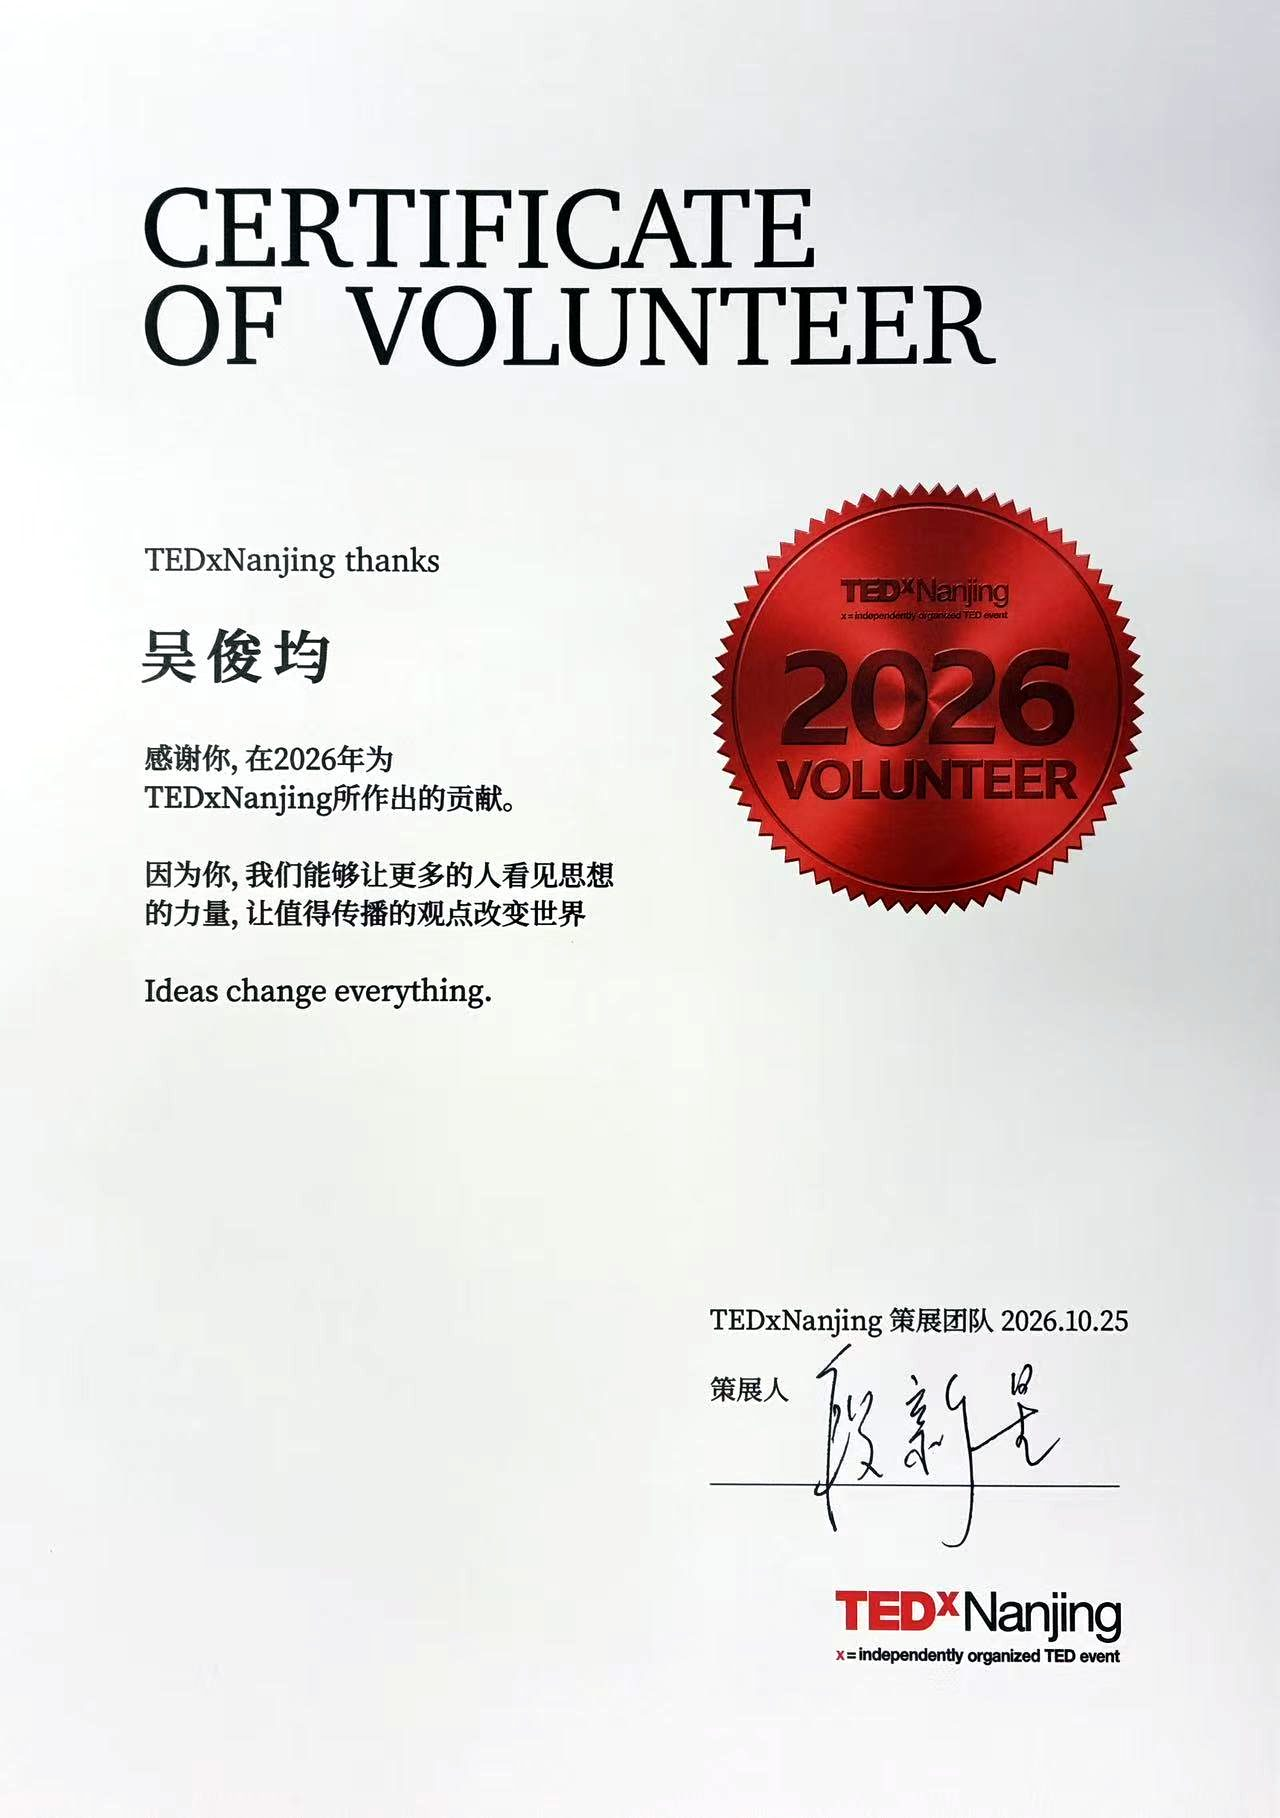
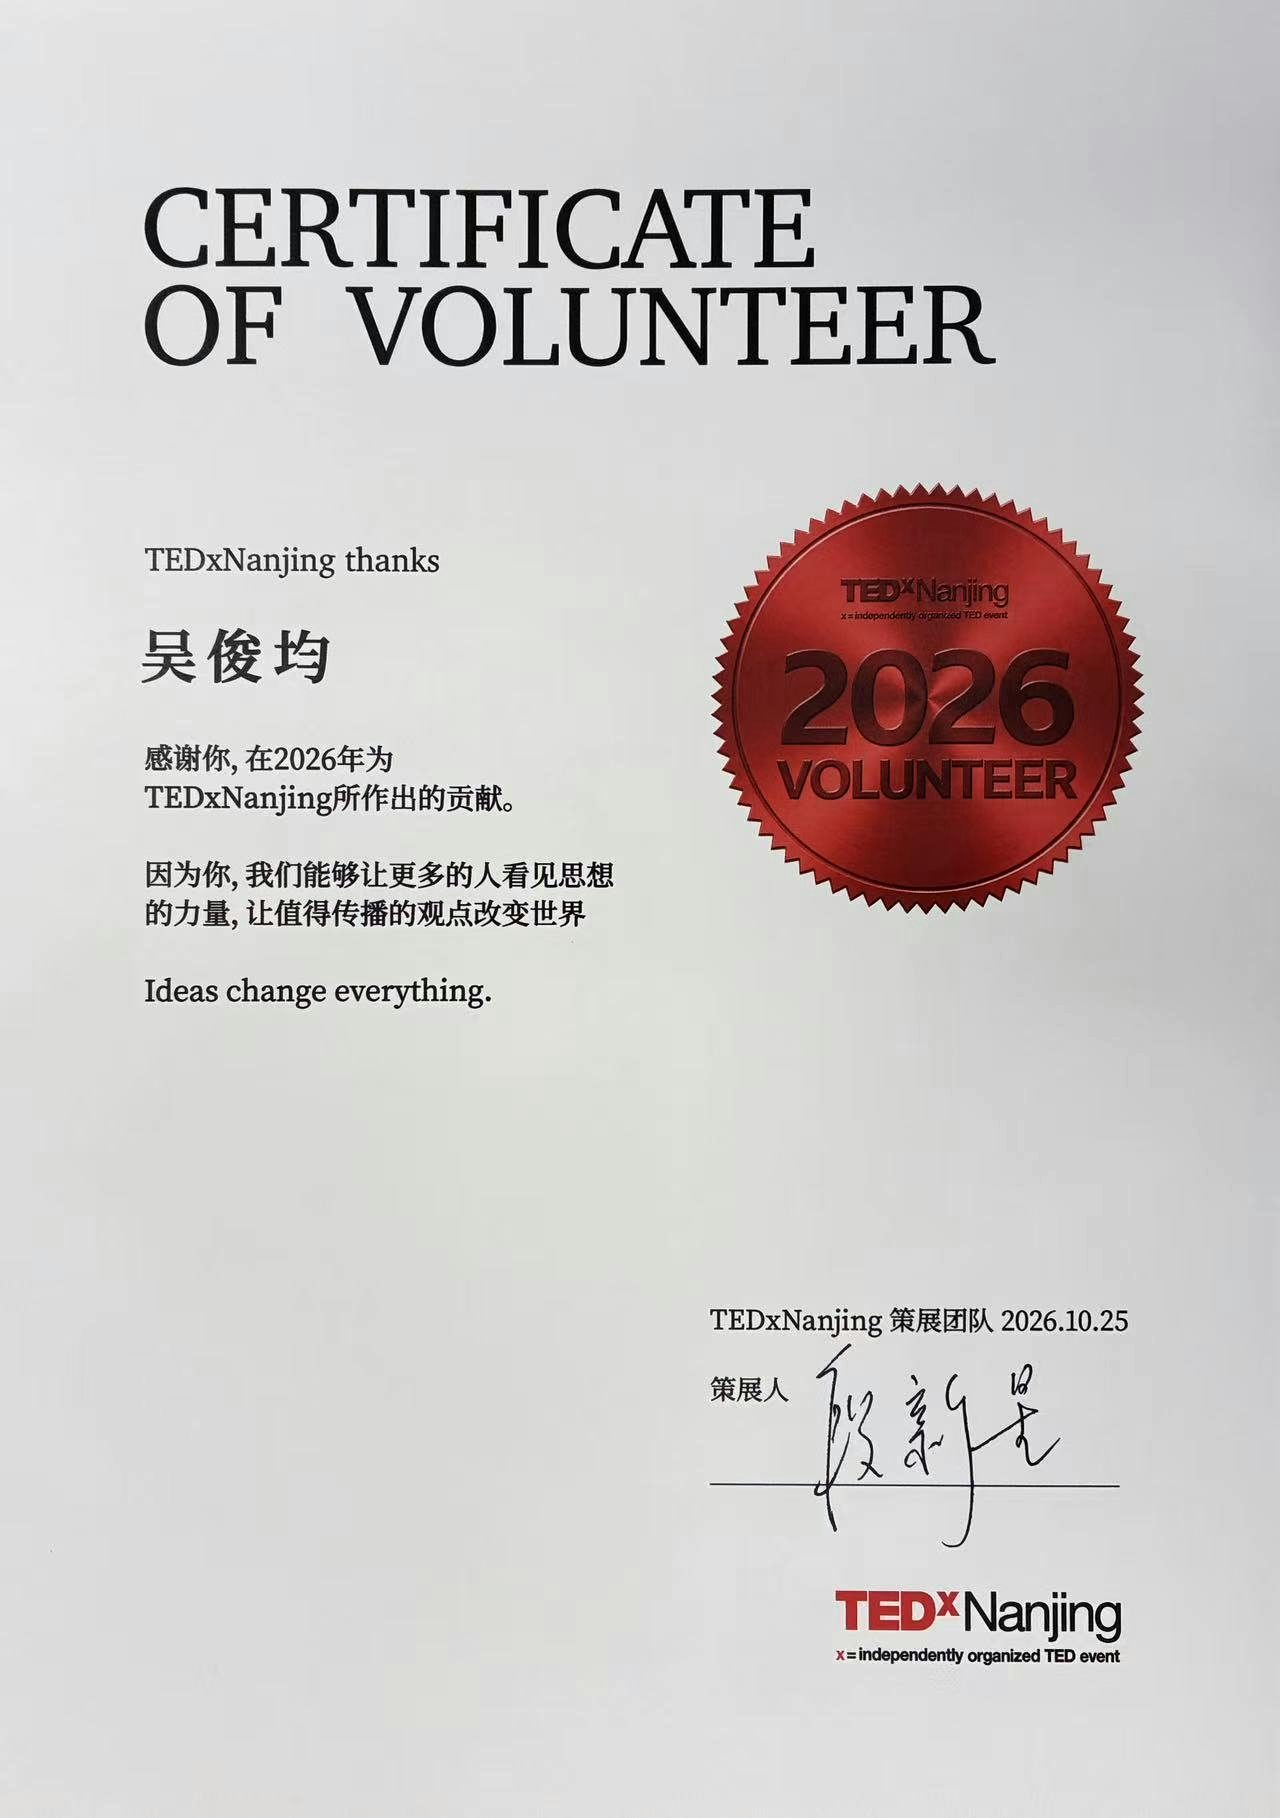
TEDx privacy per owner: only fig-1 and the certificate private, all group photos public; cert re-brightened with the luminance-only recipe (?v=3 — autocontrast version had the rejected cool cast); AGENTS.md: group-photo privacy is a per-story call; bump v=20261115k

diff --git a/js/data.js b/js/data.js
@@ -287,8 +287,8 @@ window.SITE = {
         { file: "fig-1.jpg?v=2", at: 1, privacy: true, en: "At the theme wall with this year’s visitor sign.", de: "Vor der Themenwand mit dem Besucherschild des Jahres." },
         { file: "fig-2.jpg?v=2", at: 1, en: "The auditorium at setup — a rehearsal deck already on the screen.", de: "Der Saal beim Aufbau — ein Probefoliensatz schon auf der Leinwand." },
         { file: "fig-3.jpg", at: 2, en: "The stage ready: the red circle and the TEDxNanjing letters.", de: "Die fertige Bühne: der rote Kreis und die TEDxNanjing-Buchstaben." },
-        { file: "fig-4.jpg", at: 2, privacy: true, en: "The crew in the empty auditorium, an hour before doors.", de: "Das Team im leeren Saal, eine Stunde vor dem Einlass." },
-        { file: "fig-5.jpg", at: 2, privacy: true, en: "The check-in desk opens at 13:30.", de: "Der Check-in öffnet um 13:30." },
+        { file: "fig-4.jpg", at: 2, en: "The crew in the empty auditorium, an hour before doors.", de: "Das Team im leeren Saal, eine Stunde vor dem Einlass." },
+        { file: "fig-5.jpg", at: 2, en: "The check-in desk opens at 13:30.", de: "Der Check-in öffnet um 13:30." },
         { file: "fig-6.jpg", at: 2, en: "Rehearsal on the red circle, hours before doors.", de: "Probe auf dem roten Kreis, Stunden vor dem Einlass." },
         { file: "fig-7.jpg", at: 2, en: "The hosts open the afternoon.", de: "Die Moderation eröffnet den Nachmittag." },
         { file: "fig-8.jpg", at: 2, en: "Duan Xinxing, TEDxNanjing’s founder, on stage.", de: "Duan Xinxing, Gründer von TEDxNanjing, auf der Bühne." },
@@ -298,11 +298,11 @@ window.SITE = {
         { file: "fig-12.jpg", at: 2, en: "Overtones — from personal expression to collective resonance, on cello.", de: "Obertöne — vom persönlichen Ausdruck zur kollektiven Resonanz, am Cello." },
         { file: "fig-13.jpg", at: 2, en: "A speaker against the burning-eye projection.", de: "Ein Sprecher vor der Projektion des brennenden Auges." },
         { file: "fig-14.jpg", at: 2, en: "The virtual-cell talk on the big screen.", de: "Der Vortrag über virtuelle Zellen auf der großen Leinwand." },
-        { file: "fig-15.jpg", at: 3, privacy: true, en: "Volunteers taking their own keepsake photo, shot on a DV camera.", de: "Freiwillige beim eigenen Erinnerungsfoto, mit einer DV-Kamera." },
+        { file: "fig-15.jpg", at: 3, en: "Volunteers taking their own keepsake photo, shot on a DV camera.", de: "Freiwillige beim eigenen Erinnerungsfoto, mit einer DV-Kamera." },
         { file: "fig-16.jpg", at: 3, en: "The closing slide: credits and the volunteer team of 2026.", de: "Die Schlussfolie: Credits und das Freiwilligenteam von 2026." },
-        { file: "fig-17.jpg", at: 3, privacy: true, en: "The whole team behind the TEDxNanjing letters.", de: "Das ganze Team hinter den TEDxNanjing-Buchstaben." },
-        { file: "fig-18.jpg", at: 3, privacy: true, en: "Speakers and certificates at the final call on stage.", de: "Sprecher und Zertifikate beim letzten Auftritt auf der Bühne." },
-        { file: "fig-19.jpg", at: 3, privacy: true, center: true, ratio: "1280/1818", en: "The volunteer certificate, issued by the TEDxNanjing team on 25 October 2026.", de: "Das Freiwilligenzertifikat, ausgestellt vom TEDxNanjing-Team am 25. Oktober 2026." }
+        { file: "fig-17.jpg", at: 3, en: "The whole team behind the TEDxNanjing letters.", de: "Das ganze Team hinter den TEDxNanjing-Buchstaben." },
+        { file: "fig-18.jpg", at: 3, en: "Speakers and certificates at the final call on stage.", de: "Sprecher und Zertifikate beim letzten Auftritt auf der Bühne." },
+        { file: "fig-19.jpg?v=3", at: 3, privacy: true, center: true, ratio: "1280/1818", en: "The volunteer certificate, issued by the TEDxNanjing team on 25 October 2026.", de: "Das Freiwilligenzertifikat, ausgestellt vom TEDxNanjing-Team am 25. Oktober 2026." }
       ],
       en: {
         title: "Volunteer in TEDxNanjing 2026",

diff --git a/index.html b/index.html
@@ -98,7 +98,7 @@
 </footer>
 
 <script src="assets/visitors.js?v=20261114" defer></script>
-<script src="js/data.js?v=20261115j" defer></script>
+<script src="js/data.js?v=20261115k" defer></script>
 <script src="js/app.js?v=20261115h" defer></script>
 </body>
 </html>

diff --git a/story.html b/story.html
@@ -100,7 +100,7 @@
   </div>
 </noscript>
 
-<script src="js/data.js?v=20261115j" defer></script>
+<script src="js/data.js?v=20261115k" defer></script>
 <script src="js/app.js?v=20261115h" defer></script>
 </body>
 </html>

diff --git a/AGENTS.md b/AGENTS.md
@@ -56,7 +56,10 @@ Owner drops a dated source folder `YYYY.MM.DD[~DD] <名称>/` into the repo root
    CERTIFICATES (owner rule, final 2026-11-15 — it reversed an earlier "no
    effects" call the same day): certificates are private figures exactly like
    group photos — always `privacy: true`, plus `center: true` (82% centred so
-   the reveal reads big). Brighten certificate scans when the owner marks the
+   the reveal reads big). Group-photo privacy is the owner's per-story call,
+   NOT automatic — TEDxNanjing 2026 (2026-11-15) went live with only its first
+   and last figures private; every group photo stayed public. Brighten
+   certificate scans when the owner marks the
    source file 调亮 — but NEVER shift the hue: `ImageOps.autocontrast` cooled
    the paper tone and the owner rejected it, as did a plain RGB Brightness
    lift (too subtle to register). The accepted recipe works on the YCbCr
